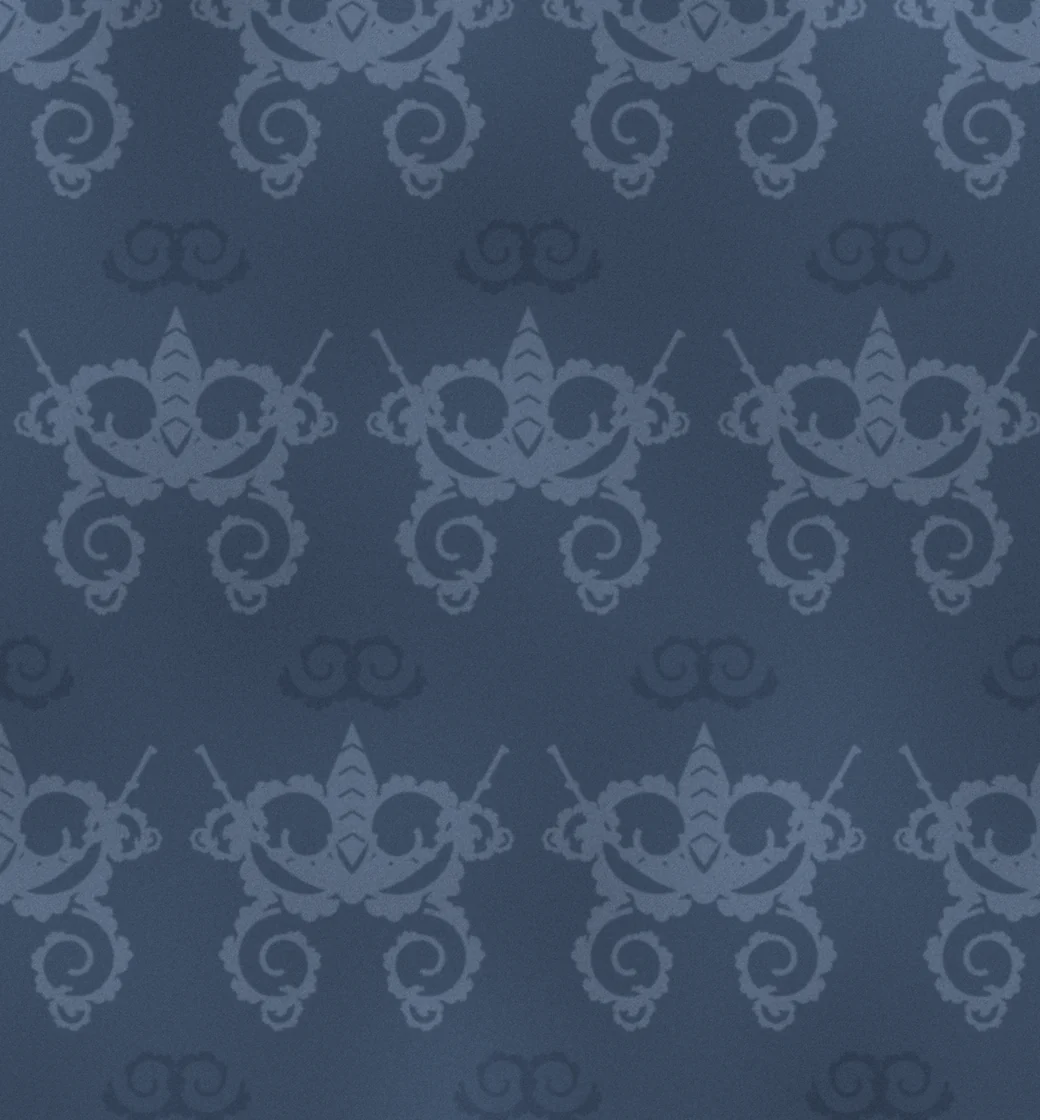
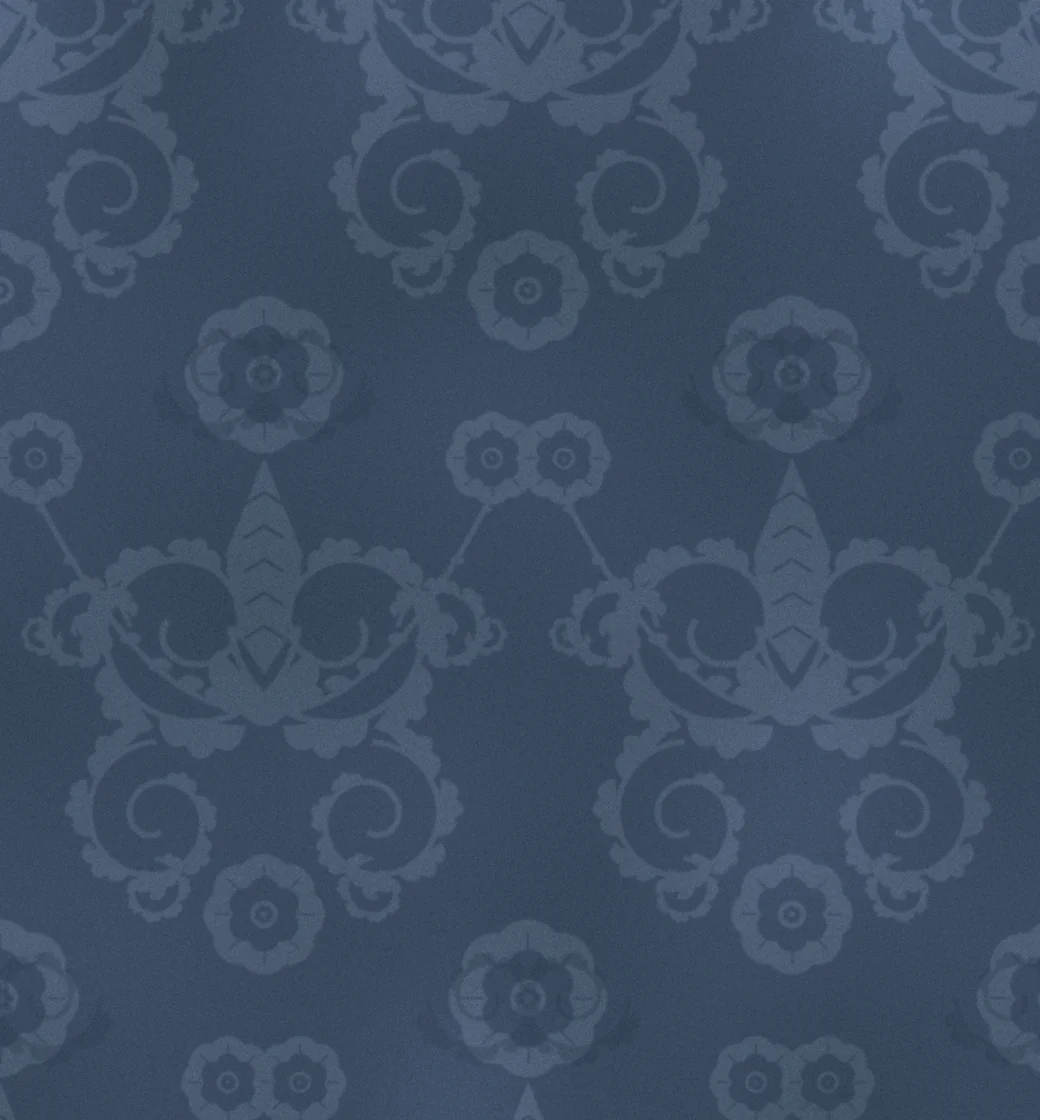
アルケルケ: ヒストリカルを荒い木目に、モダンを大きく薄い古典花柄ダマスクに
Claude-Session: https://claude.ai/code/session_01EiWRAYzNyyFMGgYmiTnvUY

diff --git a/alquerque/index.html b/alquerque/index.html
@@ -1211,8 +1211,8 @@ body.hb-on .hb .controls.hb-menu{display:flex!important}
   html:is([data-rule=dimy],[data-rule=telo],[data-rule=alq]) body .app > .rvbox{grid-area:bx;height:auto;max-height:40vh}
 }
 /* ---- Alquerque: historical (carved wood), modern (damask cloth), chalk (slate) — tools/gen_rugs.py */
-html[data-bd=carved]{--wimg:url(img/rug-carved.webp?v=2);--edge:#3a2414;--wdl:#2b190c}
-html[data-bd=damask]{--wimg:url(img/rug-damask.webp?v=2);--edge:#26323f;--wdl:#eef2f6}
+html[data-bd=carved]{--wimg:url(img/rug-carved.webp?v=3);--edge:#3a2414;--wdl:#2b190c}
+html[data-bd=damask]{--wimg:url(img/rug-damask.webp?v=3);--edge:#26323f;--wdl:#eef2f6}
 html[data-bd=chalk]{--wimg:url(img/rug-chalk.webp?v=1);--edge:#1c1d1e;--wdl:#ecebe6}
 html:is([data-bd=carved],[data-bd=damask],[data-bd=chalk]) .frame{background:var(--wimg) 0 0 / 100% 100%;border-radius:calc(var(--cell) * .1);
   box-shadow:0 calc(var(--cell) * .05) 0 var(--edge),0 40px 70px -26px rgba(0,0,0,.85)}
@@ -1612,7 +1612,7 @@ html[data-pcs=felt] .pdisc.p1{background:#e6dcc4} html[data-pcs=felt] .pdisc.p2{
 window.GAME = { id: 'alquerque', name: 'Alquerque', base: 'alq', rules: ['alq'], store: 'aicoding-alquerque', img: '../images/atlas/alquerque.webp',
   engine: '../fanorona/engine.js?v=fb2', bd: 'medallion', pcs: 'brass',
   bds: ['medallion', 'kilim', 'patch', 'chalk', 'carved', 'damask', 'abstract', 'dark'], pcss: ['brass', 'felt', 'wood', 'matte', 'flat', 'mono'],
-  bdImg: { carved: 'img/rug-carved.webp?v=2', damask: 'img/rug-damask.webp?v=2', chalk: 'img/rug-chalk.webp?v=1', medallion: 'img/rug-medallion.webp?v=7', kilim: 'img/rug-kilim.webp?v=6', patch: 'img/rug-patch.webp?v=6' },
+  bdImg: { carved: 'img/rug-carved.webp?v=3', damask: 'img/rug-damask.webp?v=3', chalk: 'img/rug-chalk.webp?v=1', medallion: 'img/rug-medallion.webp?v=7', kilim: 'img/rug-kilim.webp?v=6', patch: 'img/rug-patch.webp?v=6' },
   bdPal: { carved: ['#96704a', '#5e4026', '#2b190c'], damask: ['#3a4c60', '#26323f', '#eef2f6'], chalk: ['#2e3032', '#1c1d1e', '#ecebe6'], medallion: ['#962020', '#5a1c40', '#e2b254'], kilim: ['#cc282e', '#ec6e22', '#f4e8d2'], patch: ['#7a3a5a', '#2a608c', '#f4ead6'] },
   pcPal: { wood: [['#e0bc84', '#c49a64', '#7a5634'], ['#7a5232', '#5a3a20', '#2a180a']], matte: [['#ffffff', '#ecebe6', '#bdbab2'], ['#3a3a3c', '#1e1e20', '#0a0a0b']], brass: [['#fff0b8', '#d9ad4a', '#8a6420'], ['#3d5fb8', '#1d3478', '#0b1636']], felt: [['#f6eedc', '#e6dcc4', '#a89a80'], ['#3a5cae', '#1e3a84', '#0e1c48']] } };
 window.OL_VARIANTS = ['alq']; window.OL_DB_PREFIX = 'alq/';

diff --git a/alquerque/tools/gen_rugs.py b/alquerque/tools/gen_rugs.py
@@ -377,11 +377,15 @@ def carved(seed=5):
     rng = np.random.default_rng(seed)
     yy, xx = np.mgrid[0:H, 0:W].astype(np.float64)
     warp = gaussian_filter(rng.standard_normal((H, W)), (120, 60)); warp /= warp.std()
-    fine = np.sin(xx / 2.2 + warp * 2.0 + gaussian_filter(rng.standard_normal((H, W)), (200, 2)) * 1.2)
-    fig = gaussian_filter(rng.standard_normal((H, W)), (90, 14)); fig /= fig.std()
-    pores = gaussian_filter(rng.standard_normal((H, W)), (3, .5)); pores /= pores.std()
-    t = np.clip(.45 + .1 * fine + .22 * fig + .06 * pores, 0, 1)
-    base, dark = np.array((156, 116, 78.)), np.array((92, 62, 38.))
+    arch = ((xx - W * .52) / (W * .9)) ** 2 * 0 + np.abs(xx - W * .5) / S * 1.4 + (yy / H - .5) ** 2 * 0
+    cath = np.sqrt(np.maximum(0, ((xx - W * .5) / (S * .9)) ** 2 + ((yy - H * 1.25) / (S * 4.5)) ** 2)) * 6.5 + warp * 1.6
+    ring = np.sin(cath) ; ring = np.sign(ring) * np.abs(ring) ** .6
+    fine = np.sin(xx / 7.5 + warp * 3.0 + gaussian_filter(rng.standard_normal((H, W)), (240, 3)) * 2.2)
+    fig = gaussian_filter(rng.standard_normal((H, W)), (120, 20)); fig /= fig.std()
+    pores = gaussian_filter(rng.standard_normal((H, W)), (5, .6)); pores /= pores.std()
+    late = np.clip((fine - .82) / .18, 0, 1) + np.clip((np.sin(cath * 1.0) - .9) / .1, 0, 1)   # dark latewood lines
+    t = np.clip(.42 + .14 * ring + .08 * fine + .12 * fig + .12 * pores + .28 * gaussian_filter(late, (3, 1.2)), 0, 1)
+    base, dark = np.array((166, 124, 84.)), np.array((84, 54, 32.))
     a = base * (1 - t[..., None]) + dark * t[..., None]
     bw = S * .58; m0 = S * .14; m1 = m0 + bw
     def band(dd):
@@ -420,7 +424,23 @@ def carved(seed=5):
     return Image.fromarray(np.clip(a * v[..., None], 0, 255).astype(np.uint8))
 
 
+def flower(dd, x, y, R):
+    """a classical damask flower head: two rings of rounded petals, a cupped centre and seeds."""
+    for ring_, n, rr_, off in ((1, 8, 1.0, 0), (2, 6, .62, math.pi / 6)):
+        for k in range(n):
+            a = k * 2 * math.pi / n + off
+            px, py = x + R * rr_ * .55 * math.cos(a), y + R * rr_ * .55 * math.sin(a)
+            pr = R * rr_ * .42
+            pts = [(px + pr * math.cos(u) * (1.0 if abs(math.cos(u - a)) > 0 else 1) , py + pr * math.sin(u)) for u in np.linspace(0, 2 * math.pi, 20)]
+            dd.polygon(sc(pts), fill=255 if ring_ == 1 else 0)
+            if ring_ == 1: dd.line(sc([(x + R * .25 * math.cos(a), y + R * .25 * math.sin(a)), (x + R * .8 * math.cos(a), y + R * .8 * math.sin(a))]), fill=0, width=2 * SS)
+    dd.ellipse([(x - R * .22) * SS, (y - R * .22) * SS, (x + R * .22) * SS, (y + R * .22) * SS], fill=255)
+    for k in range(7):
+        a = k * 2 * math.pi / 7; dd.ellipse([(x + R * .1 * math.cos(a) - 3) * SS, (y + R * .1 * math.sin(a) - 3) * SS, (x + R * .1 * math.cos(a) + 3) * SS, (y + R * .1 * math.sin(a) + 3) * SS], fill=0)
+
+
 def damask(seed=6):
+    S = globals()['S'] * 1.5
     """blue-grey microfibre cloth printed with a large baroque damask (mirrored acanthus scrolls round a palmette),
     tone on tone, with a pinked edge."""
     rng = np.random.default_rng(seed)
@@ -446,14 +466,16 @@ def damask(seed=6):
                     yk = cy - S * .2 - k * S * .14
                     dd.line(sc([(cx - S * .08, yk), (cx, yk - S * .05), (cx + S * .08, yk)]), fill=0, width=3 * SS)
                 dd.ellipse([(cx - 14) * SS, (cy + S * .1 - 14) * SS, (cx + 14) * SS, (cy + S * .1 + 14) * SS], fill=255)
+                for (fx, fy, fr) in ((cx, cy - S * 1.3, S * .34), (cx - S * .95, cy - S * .95, S * .2), (cx + S * .95, cy - S * .95, S * .2), (cx, cy + S * .95, S * .26)):
+                    flower(dd, fx, fy, fr)
     def shadow_motif(dd):   # a smaller, darker counter-pattern between the motifs
         for j in range(-1, int(H / th) + 2):
             for i in range(-1, int(W / tw) + 2):
                 cx = i * tw + (0 if j % 2 else tw / 2); cy = j * th + th * .6
                 for sg in (1, -1): acanthus(dd, cx + sg * S * .18, cy, S * .24, 0 if sg > 0 else math.pi, sg, 5, True, 1, .6)
     m = gaussian_filter(lmask(motif), .9); m2 = gaussian_filter(lmask(shadow_motif), .9)
-    a = base * (1 - .7 * m[..., None]) + hi * .7 * m[..., None]
-    a = a * (1 - .6 * m2[..., None]) + lo * .6 * m2[..., None]
+    a = base * (1 - .42 * m[..., None]) + hi * .42 * m[..., None]
+    a = a * (1 - .35 * m2[..., None]) + lo * .35 * m2[..., None]
     yy, xx = np.mgrid[0:H, 0:W].astype(np.float64)
     fab = gaussian_filter(rng.standard_normal((H, W)), .5); fab /= fab.std()
     sheen = gaussian_filter(rng.standard_normal((H, W)), 80); sheen /= sheen.std()
